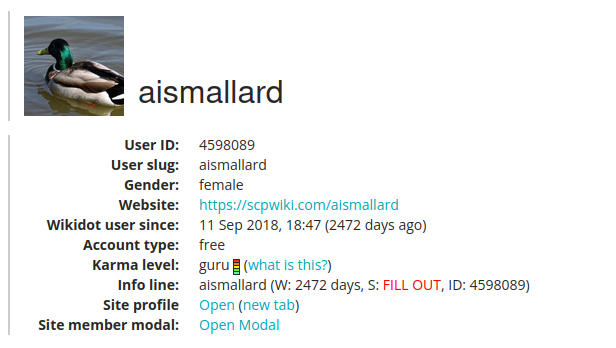
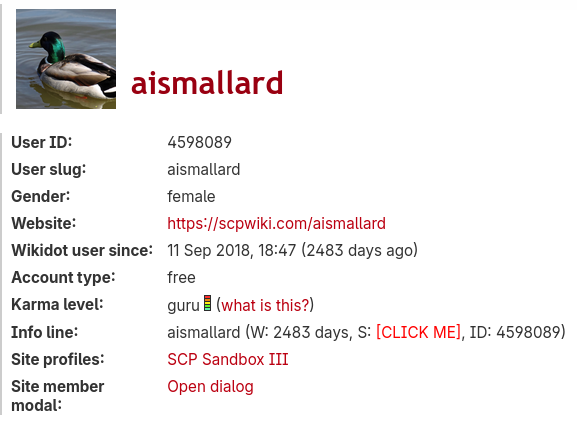
Update README.

Changed region(s): [[0.0, 0.0, 0.9983, 0.977], [0.156, 0.4598, 0.6863, 0.546]]

diff --git a/README.md b/README.md
@@ -2,9 +2,15 @@
 
 This [Greasemonkey](https://www.greasespot.net/) userscript enhances the user info page on Wikidot (e.g. https://www.wikidot.com/user:info/aismallard) by exposing additional information about users.
 
-It also exposes convenient links, one to navigate to the SCP Wiki user profile page and one to open the site member modal. If you are on a particular site, this shows you site-specific information like membership. This is primarily useful on per-site user pages like [on the SCP Wiki](https://scp-wiki.wikidot.com/system:user/aismallard).
+It also exposes convenient links, one to navigate to the SCP Wiki or SCP Sandbox III user profile page and one to open the site member modal. If you are on a particular site, this shows you site-specific information like membership. This is primarily useful on per-site user pages like [on the SCP Wiki](https://scp-wiki.wikidot.com/system:user/aismallard).
 
 ![screenshot of script](screenshot.png)
+
+Because getting the membership length depends on a different API call, we cannot populate it automatically. But if the user clicks on the text, they can prompt a call to fetch and display that information:
+
+![screenshot of user info after click](screenshot-site-days.png)
+
+The list of site profiles is configured in the Javascript, and does not provide a link to the site you are already on.
 
 Feel free to fork this script to change the exact links provided or to localize the text.
 
